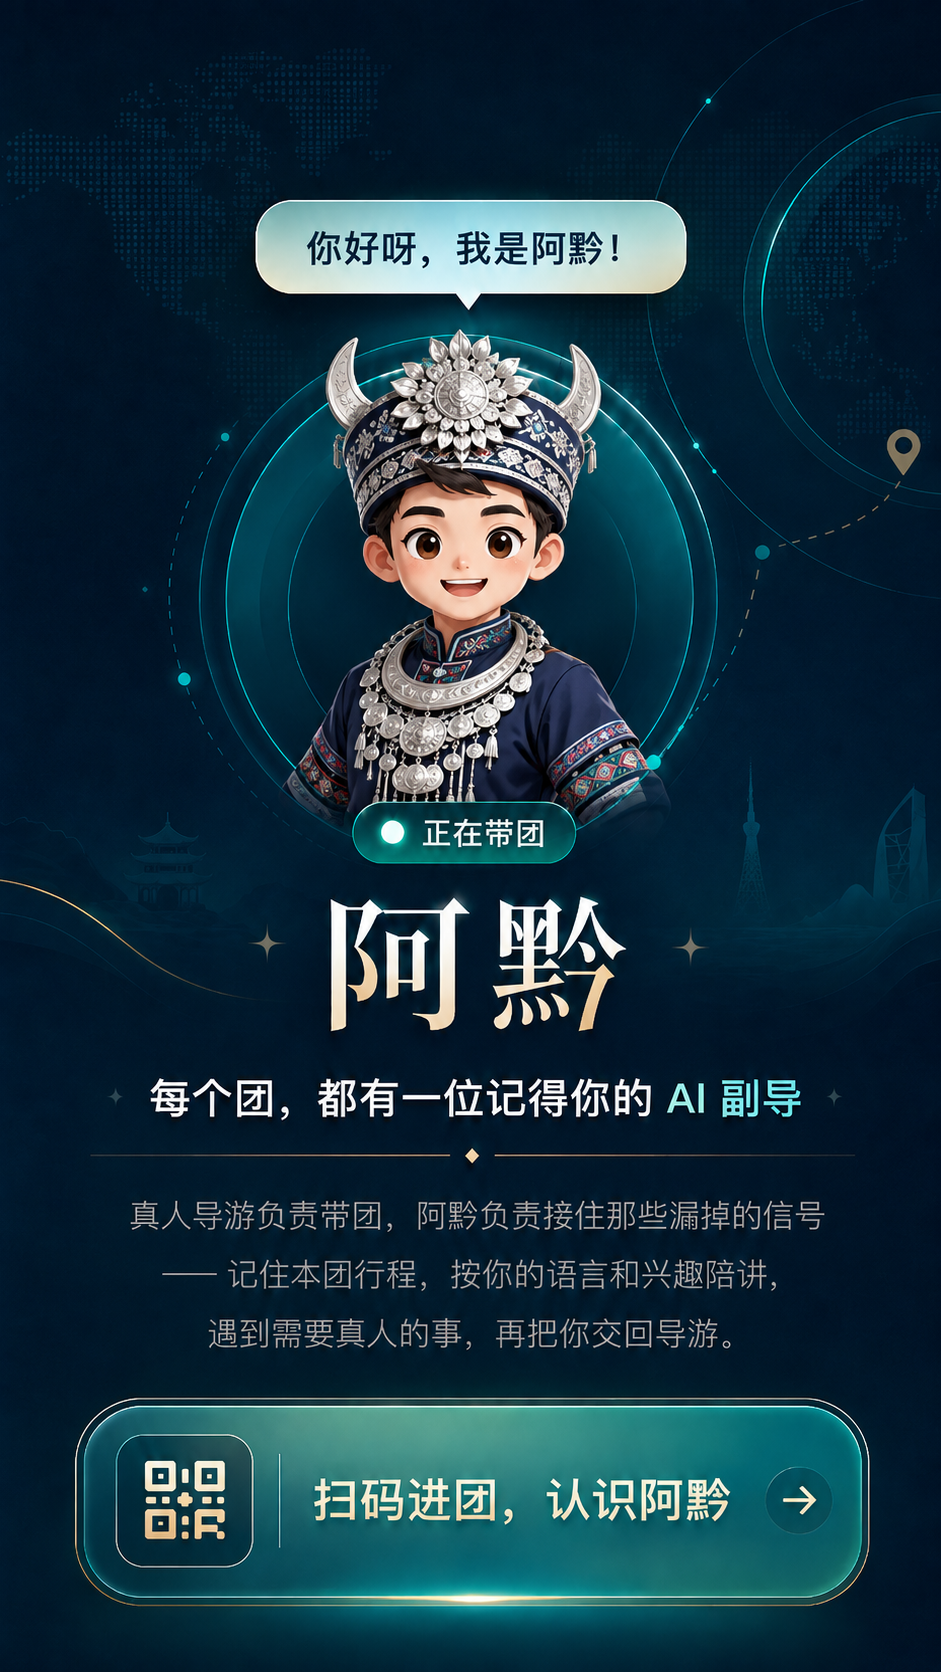
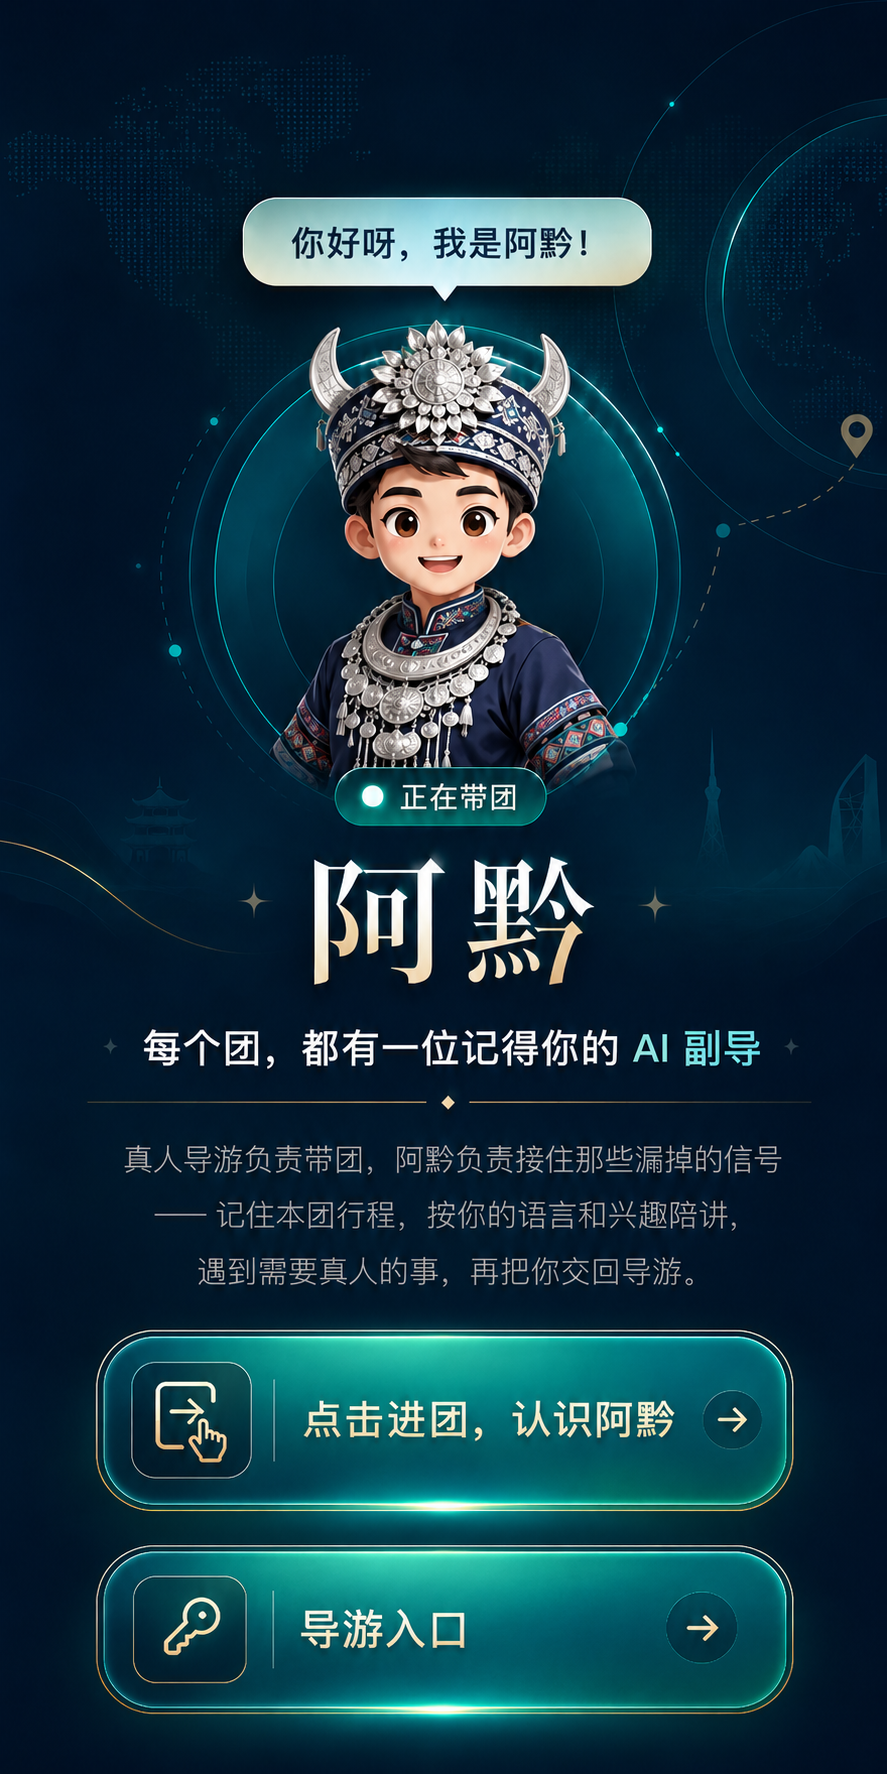
封面整图替换 + 首页顶部对齐可滚动 + 登录 Cookie 修复(HTTP)

diff --git a/src/app/page.tsx b/src/app/page.tsx
@@ -3,14 +3,14 @@ import Link from "next/link";
 import { AppShell } from "@/components/app-shell";
 
 /**
- * 首页：封面海报 + 两个入口按钮图。
- * 「点击进团」按钮图覆盖在海报原「扫码进团」位置；「导游入口」按钮图在封面下方。
+ * 首页封面：整张海报图（已含「点击进团」与「导游入口」两个按钮）。
+ * 顶部对齐、可滚动，保证底部「导游入口」不被裁掉。
  */
 export default function Home() {
   return (
     <AppShell className="bg-qian-950 shadow-none">
-      <main className="flex min-h-dvh w-full flex-col items-center justify-center bg-qian-950">
-        <div className="relative aspect-[941/1672] w-full max-w-[430px] shrink-0">
+      <main className="w-full bg-qian-950">
+        <div className="relative mx-auto aspect-[887/1774] w-full max-w-[430px]">
           <Image
             src="/cover/aqian-cover.png"
             alt="阿黔：每个团，都有一位记得你的 AI 副导"
@@ -20,37 +20,20 @@ export default function Home() {
             className="object-contain"
           />
 
-          {/* 进团入口：用新的「点击进团」按钮图覆盖原「扫码进团」位置 */}
+          {/* 点击进团 */}
           <Link
             href="/join"
-            aria-label="点击进团"
-            className="absolute left-[6%] right-[6%] top-[81%] outline-none transition active:scale-[0.98] focus-visible:ring-4 focus-visible:ring-white/90 focus-visible:ring-offset-4 focus-visible:ring-offset-qian-950"
-          >
-            <Image
-              src="/cover/btn-join.png"
-              alt="点击进团"
-              width={2172}
-              height={724}
-              priority
-              className="h-auto w-full"
-            />
-          </Link>
-        </div>
-
-        {/* 导游入口：新的按钮图 */}
-        <Link
-          href="/guide"
-          aria-label="导游入口"
-          className="mt-5 block w-[88%] max-w-[378px] outline-none transition active:scale-[0.98] focus-visible:ring-2 focus-visible:ring-white/80"
-        >
-          <Image
-            src="/cover/btn-guide.png"
-            alt="导游入口"
-            width={2172}
-            height={724}
-            className="h-auto w-full"
+            aria-label="点击进团，认识阿黔"
+            className="absolute left-[10.7%] right-[10.6%] top-[74.9%] h-[10.4%] rounded-3xl outline-none transition focus-visible:ring-4 focus-visible:ring-white/90 focus-visible:ring-offset-4 focus-visible:ring-offset-qian-950"
           />
-        </Link>
+
+          {/* 导游入口 */}
+          <Link
+            href="/guide"
+            aria-label="导游入口"
+            className="absolute left-[10.8%] right-[10.6%] top-[87.2%] h-[9.4%] rounded-3xl outline-none transition focus-visible:ring-4 focus-visible:ring-white/90 focus-visible:ring-offset-4 focus-visible:ring-offset-qian-950"
+          />
+        </div>
       </main>
     </AppShell>
   );

diff --git a/src/lib/auth/session.ts b/src/lib/auth/session.ts
@@ -44,7 +44,7 @@ export async function setMemberSession(tourCode: string, memberId: string) {
   const store = await cookies();
   store.set(memberCookie(tourCode), jwt, {
     httpOnly: true,
-    secure: isProd,
+    secure: isProd && (process.env.NEXT_PUBLIC_APP_URL?.startsWith("https") ?? false),
     sameSite: "lax",
     path: "/",
     maxAge: 60 * 60 * 24 * 2,
@@ -115,7 +115,7 @@ export async function setGuideSession(tourCode: string) {
   const store = await cookies();
   store.set(guideCookie(tourCode), jwt, {
     httpOnly: true,
-    secure: isProd,
+    secure: isProd && (process.env.NEXT_PUBLIC_APP_URL?.startsWith("https") ?? false),
     sameSite: "lax",
     path: "/",
     maxAge: 60 * 60 * 24 * 2,
